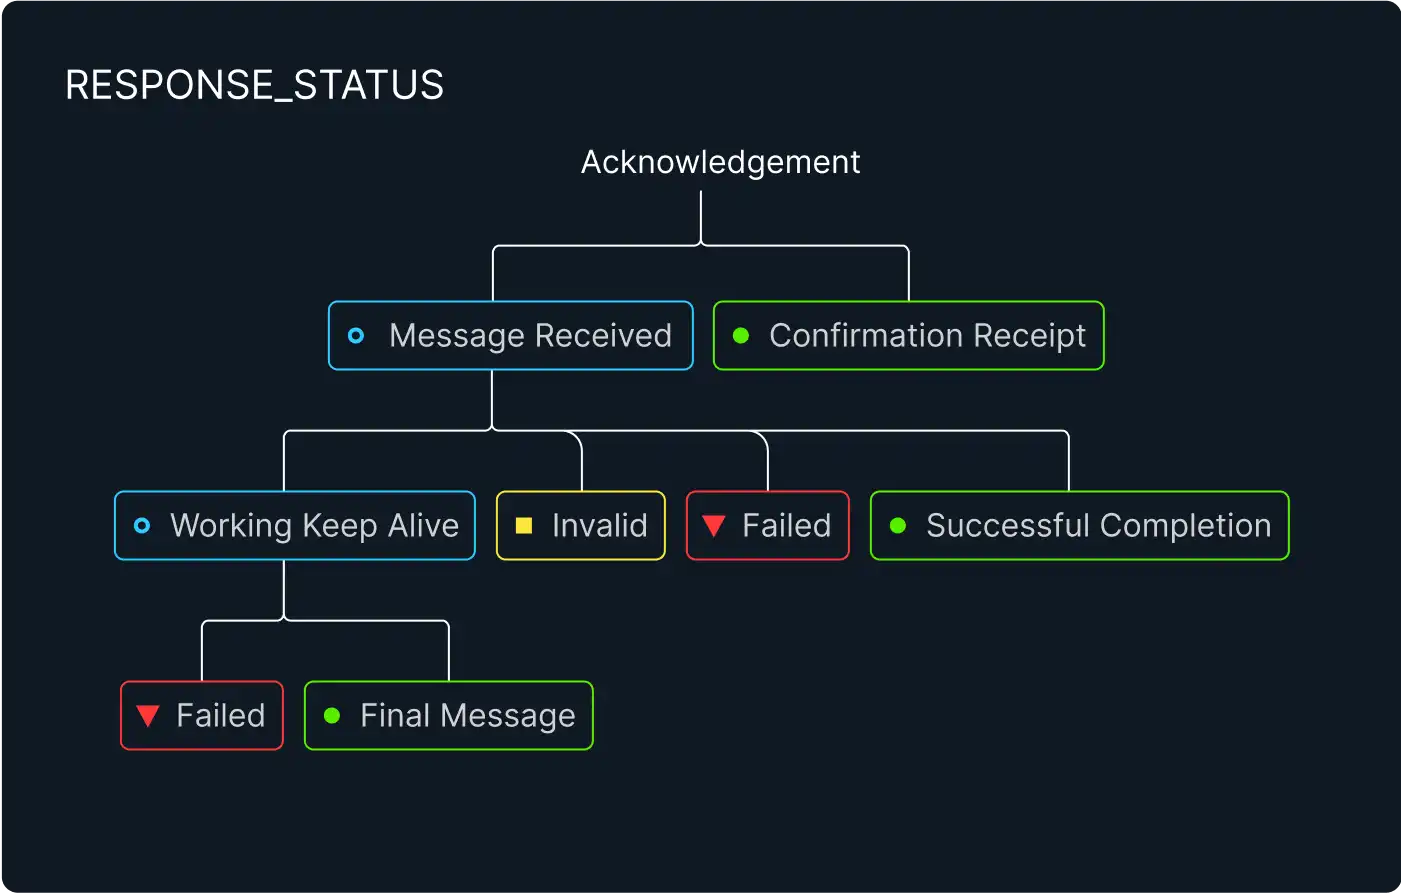
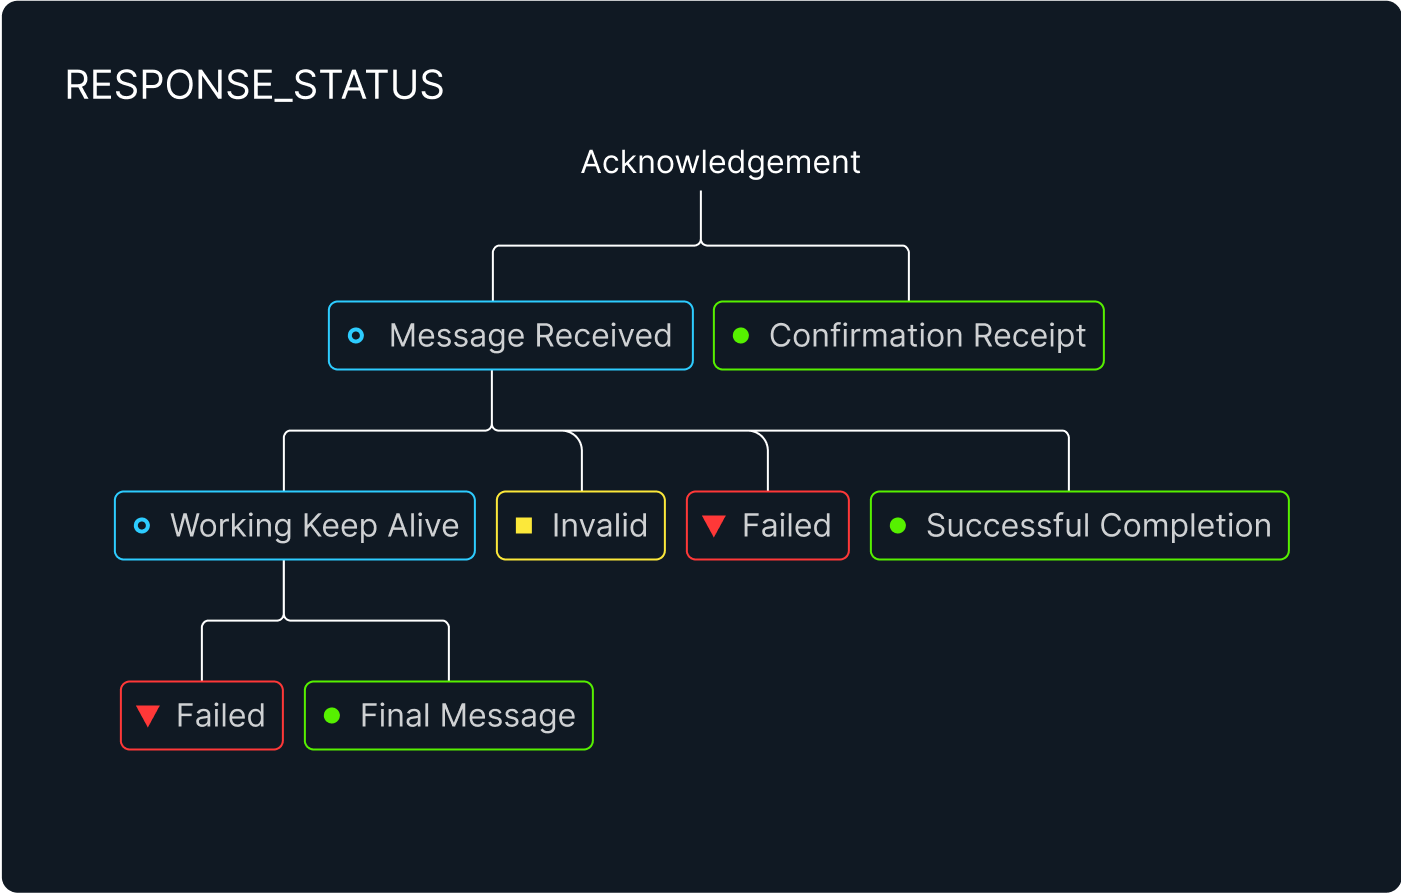
with new webp

diff --git a/src/pages/platforms/astro-for-r2c2.md b/src/pages/platforms/astro-for-r2c2.md
@@ -34,7 +34,7 @@ Identifies the status of the message that was processed. The figure below of a s
 
 </div>
 
-![](/img/platforms/r2c2/_RESPONSE-STATUS.svg)
+![](/img/platforms/r2c2/_RESPONSE-STATUS.webp)
 
 RESPONSE-STATUS locations in the Message Interface Specification Document: 3.3 - Alert Notification Message, 3.7.2 - Archive Message Retrieval Response, 3.8.2 - Directive Response Message, 3.8.2 - Replay Telemetry Response Message, 3.12.2 - Mnemonic Value Response Message, 3.13.2 - Archive Mnemonic Value Response Message, 3.14.2 - Command Response Message, 3.15.2 - Product Response Message, 3.15.3 - Product Message, 3.16.2 - Simple Service Response Message.
 
